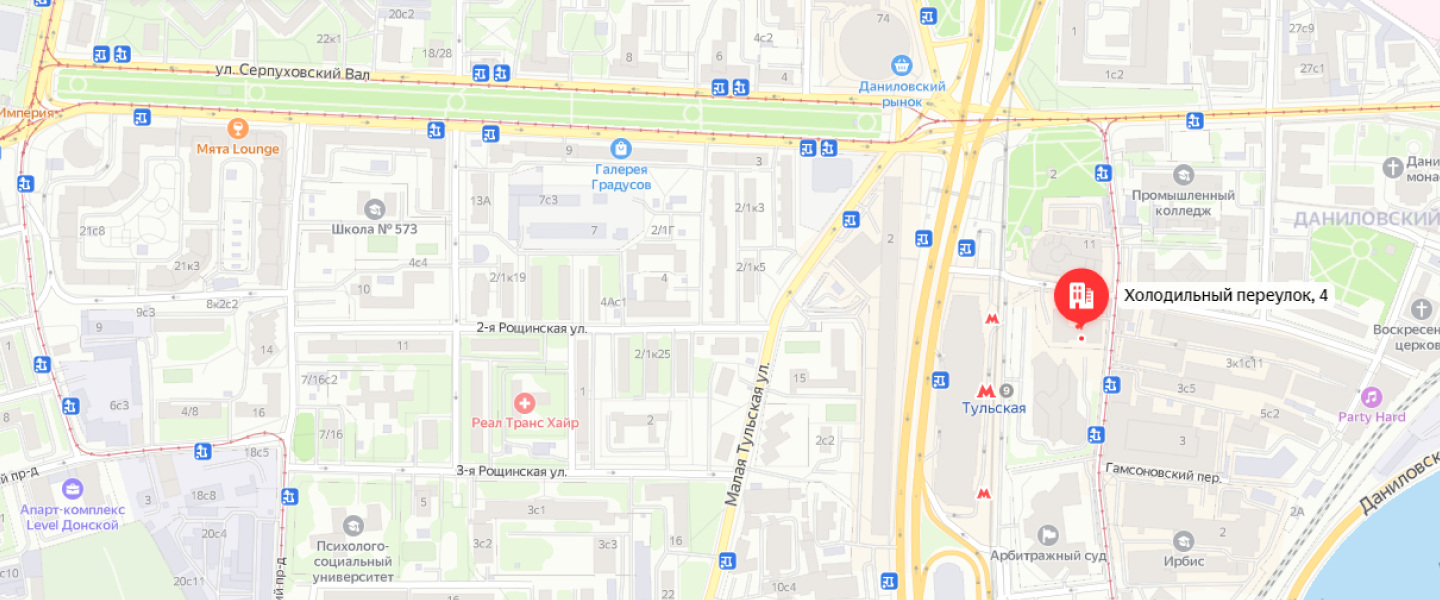
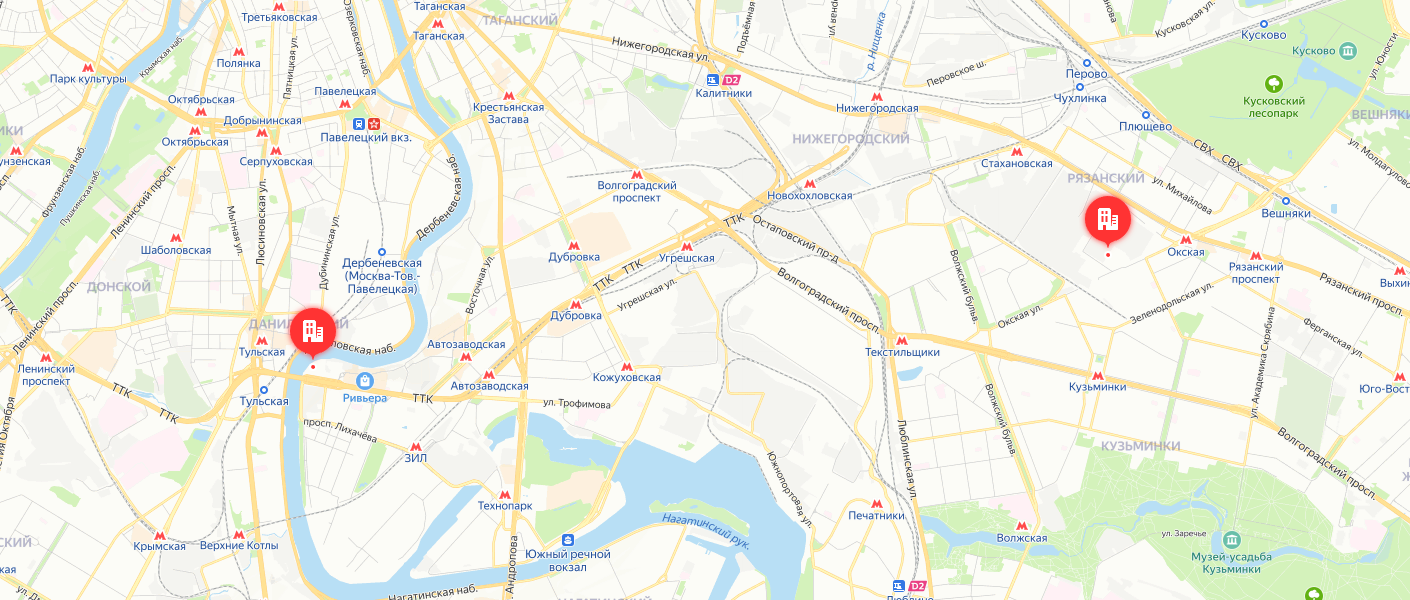
refactoring map

diff --git a/src/layouts/contacts-template.html b/src/layouts/contacts-template.html
@@ -21,26 +21,35 @@
     
     <script>
         const mapOnPage = document.getElementById('map');
-        let center = [55.708831, 37.628155];
+        let center = [55.712812, 37.698672];
     
         function init() {
             //eslint-disable-next-line
             let map = new ymaps.Map('map', {
                 center: center,
-                zoom: 15,
+                zoom: 13,
                 controls: []
             });
     
             //eslint-disable-next-line
-            let placemark = new ymaps.Placemark(center, {
-                balloonContent: null,
+            let placemarkOffice = new ymaps.Placemark([55.708831, 37.628155], {
+                balloonContent: 'Адрес офиса: <a href="https://yandex.ru/maps/-/CCUFNPHilD">https://yandex.ru/maps/-/CCUFNPHilD</a>',
+            }, {
+                iconLayout: "default#image",
+                iconImageHref: "./assets/images/svg/map-marker.svg",
+                iconImageSize: [60, 68],
+            });
+            //eslint-disable-next-line
+            let placemarkStock = new ymaps.Placemark([55.719693, 37.764636], {
+                balloonContent: 'Адрес склада: <a href="https://yandex.ru/maps/-/CCUFNTeVSC">https://yandex.ru/maps/-/CCUFNTeVSC</a>',
             }, {
                 iconLayout: "default#image",
                 iconImageHref: "./assets/images/svg/map-marker.svg",
                 iconImageSize: [60, 68],
             });
     
-            map.geoObjects.add(placemark);
+            map.geoObjects.add(placemarkOffice);
+            map.geoObjects.add(placemarkStock);
         }
     
         function addScript( src ) {

diff --git a/src/assets/scss/blocks/contacts.scss b/src/assets/scss/blocks/contacts.scss
@@ -20,7 +20,9 @@
 
         height: 600px;
 
-        background: url('./../images/map.png') 50% / cover no-repeat;
+        background-size: cover;
+        background-position: 50%;
+        background-repeat: no-repeat;
         cursor: pointer;
 
         .ymaps-2-1-79-gototech {display: none}
@@ -28,13 +30,18 @@
         .ymaps-2-1-79-gotoymaps__container {display: none}
         .ymaps-2-1-79-copyright__wrap {display: none}
 
+        .ymaps-2-1-79-balloon__content {
+            a {
+                color: #5C8EE5;
+                text-decoration: underline;
+            }
+        }
+
         &:hover {
             &:hover { box-shadow: 0px 0px 25px rgba(240, 242, 245, 1) }
         }
         
-        @media (max-width: 768px) {
-            height: 600px;
-        }
+        @media (max-width: 768px) { height: 500px }
     }
 
     &__info {

diff --git a/src/contacts.html b/src/contacts.html
@@ -37,7 +37,7 @@ title: ALIANCE | Политика конфиденциальности
             </div>
         </div>
 
-        <button class="contacts__map" id="map"></button>
+        <button class="contacts__map lozad" id="map" data-background-image="./assets/images/map.png" data-background-image-set="./assets/images/map@2x.png"></button>
     </div>
 </section>
 
